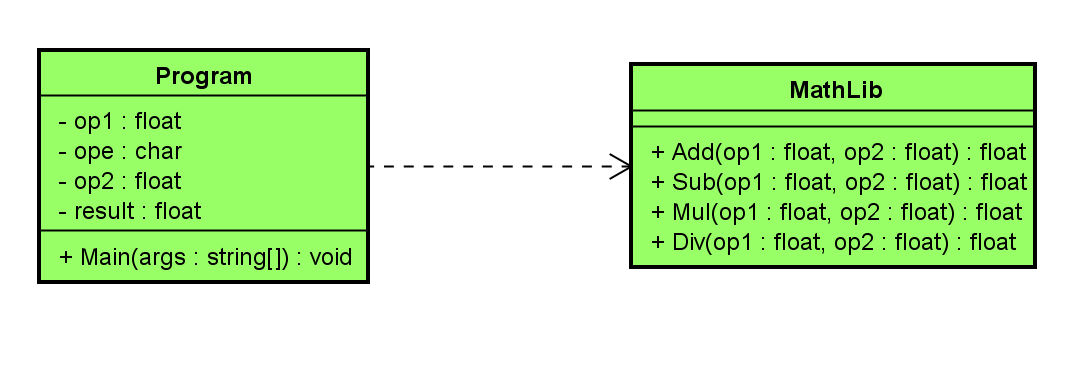
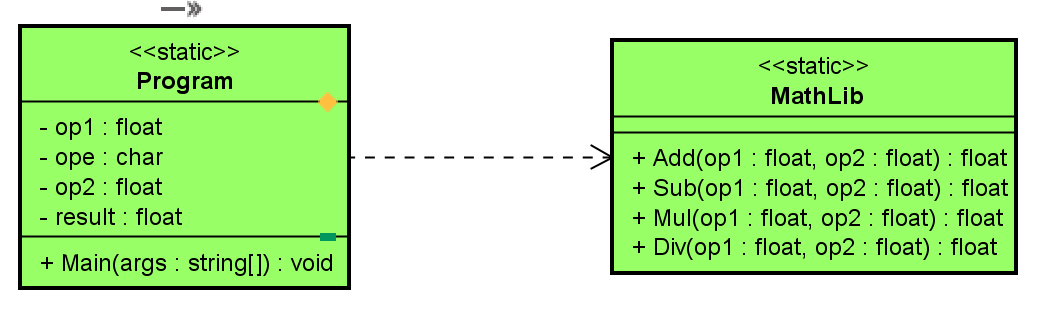
feat: split calcuate into add, sub, mul and div methods

Changed region(s): [[0.0, 0.0, 0.9837, 0.8735]]

diff --git a/Program.cs b/Program.cs
@@ -1,4 +1,5 @@
 using System.Diagnostics;
+using static Calculator.MathLib;
 
 namespace Calculator
 {
@@ -8,7 +9,6 @@ namespace Calculator
         private static char oper;
         private static float op2;
         private static float result = 0;
-        private static MathLib mathLib = new MathLib();
         static void Main(string[] args)
         {
             while (true)
@@ -30,7 +30,7 @@ namespace Calculator
                 Console.WriteLine("**********RESULT*****************");
                 try
                 {
-                    result = mathLib.Calculate(op1, oper, op2);
+                    result = Calculate(op1, oper, op2);
                     Console.Clear();
                     Console.WriteLine("Calculation is " + op1 + " " + oper + " " + op2 + " = " + result);
                 }
@@ -39,6 +39,22 @@ namespace Calculator
                     Console.Clear();
                     Console.WriteLine("This operator " + oper + " doesn't exist !");
                 }
+            }
+        }
+        private static float Calculate(float op1, char oper, float op2)
+        {
+            switch (oper)
+            {
+                case '+':
+                    return MathLib.Add(op1, op2);
+                case '-':
+                    return MathLib.Sub(op1, op2);
+                case '*':
+                    return MathLib.Mul(op1, op2);
+                case '/':
+                    return MathLib.Div(op1, op2);
+                default:
+                    throw new BadOperatorException();
             }
         }
     }

diff --git a/MathLib.cs b/MathLib.cs
@@ -1,23 +1,27 @@
 namespace Calculator
 {
-    public class MathLib
+    public static class MathLib
     {
-        public float Calculate(float op1, char oper, float op2)
+        public static float Add(float op1, float op2)
         {
-            switch (oper)
-            {
-                case '+':
-                    return op1 + op2;
-                case '-':
-                    return op1 - op2;
-                case '*':
-                    return op1 * op2;
-                case '/':
-                    return op1 / op2;
-                default:
-                    throw new BadOperatorException();
-            }
+            return op1 + op2;
         }
+
+        public static float Sub(float op1, float op2)
+        {
+            return op1 - op2;
+        }
+
+        public static float Mul(float op1, float op2) 
+        {
+            return op1 * op2;
+        }
+
+        public static float Div(float op1, float op2)
+        {
+            return op1 / op2;
+        }
+
         public class CalcException : Exception { };
         public class BadOperatorException : CalcException { };
     }
